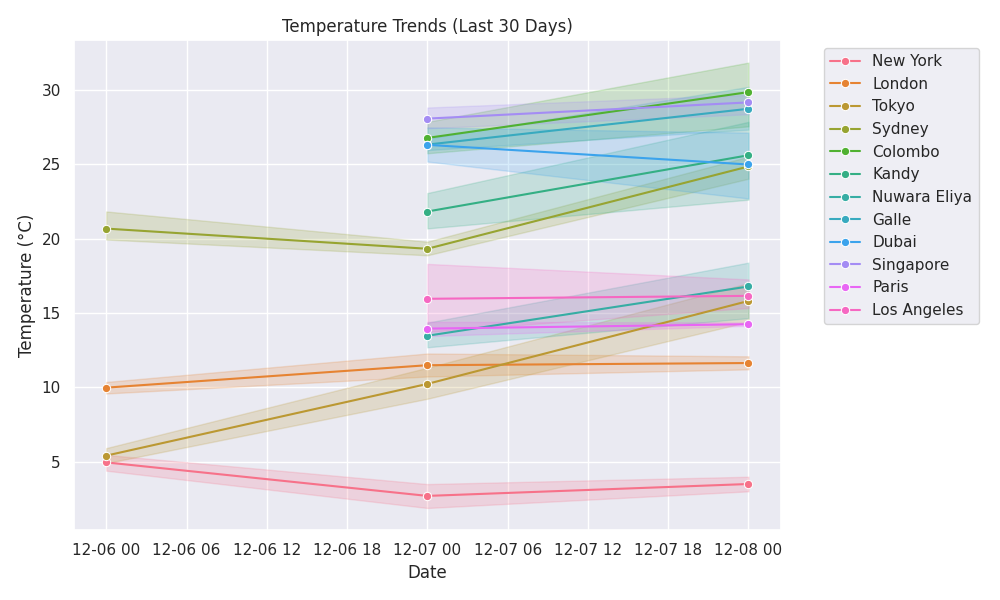
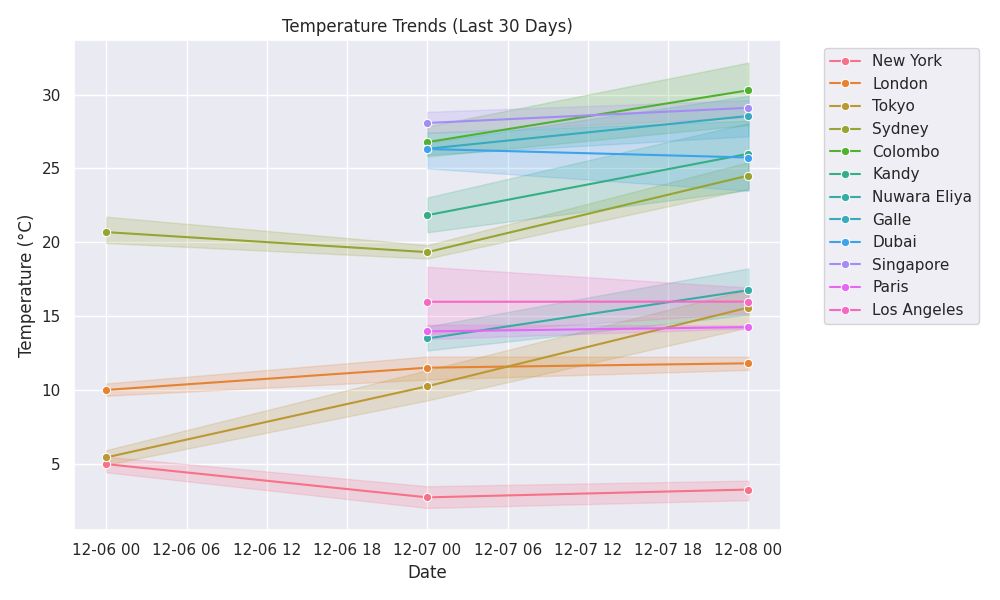
🌦 Weather update: 2025-12-08 09:20

diff --git a/public/index.html b/public/index.html
@@ -11,7 +11,7 @@
     <div class="max-w-6xl mx-auto">
         <header class="mb-8 text-center">
             <h1 class="text-4xl font-bold mb-2">🌍 Global Weather Dashboard</h1>
-            <p class="text-slate-400">Last Updated: 2025-12-08 08:21:21</p>
+            <p class="text-slate-400">Last Updated: 2025-12-08 09:20:39</p>
         </header>
         
         <!-- AI Summary -->
@@ -29,12 +29,12 @@
                     <span class="text-3xl">☁</span>
                 </div>
                 <div class="mt-4">
-                    <p class="text-4xl font-bold">14.14°C</p>
+                    <p class="text-4xl font-bold">14.19°C</p>
                     <p class="text-slate-400 capitalize">overcast clouds</p>
                 </div>
                 <div class="mt-4 text-sm text-slate-500">
                     <p>💧 Humidity: 90%</p>
-                    <p>💨 Wind: 6.69 m/s</p>
+                    <p>💨 Wind: 6.17 m/s</p>
                 </div>
             </div>
             
@@ -44,12 +44,12 @@
                     <span class="text-3xl">☁</span>
                 </div>
                 <div class="mt-4">
-                    <p class="text-4xl font-bold">12.62°C</p>
-                    <p class="text-slate-400 capitalize">few clouds</p>
+                    <p class="text-4xl font-bold">12.85°C</p>
+                    <p class="text-slate-400 capitalize">overcast clouds</p>
                 </div>
                 <div class="mt-4 text-sm text-slate-500">
                     <p>💧 Humidity: 87%</p>
-                    <p>💨 Wind: 4.12 m/s</p>
+                    <p>💨 Wind: 4.47 m/s</p>
                 </div>
             </div>
             
@@ -59,12 +59,12 @@
                     <span class="text-3xl">☀</span>
                 </div>
                 <div class="mt-4">
-                    <p class="text-4xl font-bold">22.55°C</p>
+                    <p class="text-4xl font-bold">22.11°C</p>
                     <p class="text-slate-400 capitalize">clear sky</p>
                 </div>
                 <div class="mt-4 text-sm text-slate-500">
-                    <p>💧 Humidity: 70%</p>
-                    <p>💨 Wind: 10.29 m/s</p>
+                    <p>💧 Humidity: 74%</p>
+                    <p>💨 Wind: 10.8 m/s</p>
                 </div>
             </div>
             
@@ -74,12 +74,12 @@
                     <span class="text-3xl">☁</span>
                 </div>
                 <div class="mt-4">
-                    <p class="text-4xl font-bold">29.71°C</p>
+                    <p class="text-4xl font-bold">28.66°C</p>
                     <p class="text-slate-400 capitalize">broken clouds</p>
                 </div>
                 <div class="mt-4 text-sm text-slate-500">
-                    <p>💧 Humidity: 66%</p>
-                    <p>💨 Wind: 8.23 m/s</p>
+                    <p>💧 Humidity: 67%</p>
+                    <p>💨 Wind: 7.2 m/s</p>
                 </div>
             </div>
             
@@ -89,12 +89,12 @@
                     <span class="text-3xl">☀</span>
                 </div>
                 <div class="mt-4">
-                    <p class="text-4xl font-bold">29.96°C</p>
+                    <p class="text-4xl font-bold">30.96°C</p>
                     <p class="text-slate-400 capitalize">clear sky</p>
                 </div>
                 <div class="mt-4 text-sm text-slate-500">
-                    <p>💧 Humidity: 20%</p>
-                    <p>💨 Wind: 4.63 m/s</p>
+                    <p>💧 Humidity: 16%</p>
+                    <p>💨 Wind: 4.12 m/s</p>
                 </div>
             </div>
             
@@ -104,12 +104,12 @@
                     <span class="text-3xl">☁</span>
                 </div>
                 <div class="mt-4">
-                    <p class="text-4xl font-bold">26.97°C</p>
+                    <p class="text-4xl font-bold">27.26°C</p>
                     <p class="text-slate-400 capitalize">scattered clouds</p>
                 </div>
                 <div class="mt-4 text-sm text-slate-500">
-                    <p>💧 Humidity: 80%</p>
-                    <p>💨 Wind: 3.95 m/s</p>
+                    <p>💧 Humidity: 78%</p>
+                    <p>💨 Wind: 3.79 m/s</p>
                 </div>
             </div>
             
@@ -119,12 +119,12 @@
                     <span class="text-3xl">☁</span>
                 </div>
                 <div class="mt-4">
-                    <p class="text-4xl font-bold">17.77°C</p>
+                    <p class="text-4xl font-bold">16.47°C</p>
                     <p class="text-slate-400 capitalize">broken clouds</p>
                 </div>
                 <div class="mt-4 text-sm text-slate-500">
-                    <p>💧 Humidity: 68%</p>
-                    <p>💨 Wind: 1.97 m/s</p>
+                    <p>💧 Humidity: 73%</p>
+                    <p>💨 Wind: 1.51 m/s</p>
                 </div>
             </div>
             
@@ -134,12 +134,12 @@
                     <span class="text-3xl">☀</span>
                 </div>
                 <div class="mt-4">
-                    <p class="text-4xl font-bold">28.88°C</p>
+                    <p class="text-4xl font-bold">28.63°C</p>
                     <p class="text-slate-400 capitalize">clear sky</p>
                 </div>
                 <div class="mt-4 text-sm text-slate-500">
-                    <p>💧 Humidity: 49%</p>
-                    <p>💨 Wind: 1.92 m/s</p>
+                    <p>💧 Humidity: 50%</p>
+                    <p>💨 Wind: 1.93 m/s</p>
                 </div>
             </div>
             
@@ -153,8 +153,8 @@
                     <p class="text-slate-400 capitalize">few clouds</p>
                 </div>
                 <div class="mt-4 text-sm text-slate-500">
-                    <p>💧 Humidity: 53%</p>
-                    <p>💨 Wind: 6.82 m/s</p>
+                    <p>💧 Humidity: 50%</p>
+                    <p>💨 Wind: 7.56 m/s</p>
                 </div>
             </div>
             
@@ -164,12 +164,12 @@
                     <span class="text-3xl">☁</span>
                 </div>
                 <div class="mt-4">
-                    <p class="text-4xl font-bold">2.31°C</p>
+                    <p class="text-4xl font-bold">1.35°C</p>
                     <p class="text-slate-400 capitalize">broken clouds</p>
                 </div>
                 <div class="mt-4 text-sm text-slate-500">
-                    <p>💧 Humidity: 55%</p>
-                    <p>💨 Wind: 9.26 m/s</p>
+                    <p>💧 Humidity: 50%</p>
+                    <p>💨 Wind: 7.72 m/s</p>
                 </div>
             </div>
             
@@ -179,12 +179,12 @@
                     <span class="text-3xl">☁</span>
                 </div>
                 <div class="mt-4">
-                    <p class="text-4xl font-bold">14.95°C</p>
+                    <p class="text-4xl font-bold">13.86°C</p>
                     <p class="text-slate-400 capitalize">scattered clouds</p>
                 </div>
                 <div class="mt-4 text-sm text-slate-500">
-                    <p>💧 Humidity: 52%</p>
-                    <p>💨 Wind: 4.12 m/s</p>
+                    <p>💧 Humidity: 59%</p>
+                    <p>💨 Wind: 3.09 m/s</p>
                 </div>
             </div>
             
@@ -194,11 +194,11 @@
                     <span class="text-3xl">☀</span>
                 </div>
                 <div class="mt-4">
-                    <p class="text-4xl font-bold">14.54°C</p>
+                    <p class="text-4xl font-bold">14.67°C</p>
                     <p class="text-slate-400 capitalize">clear sky</p>
                 </div>
                 <div class="mt-4 text-sm text-slate-500">
-                    <p>💧 Humidity: 73%</p>
+                    <p>💧 Humidity: 74%</p>
                     <p>💨 Wind: 1.54 m/s</p>
                 </div>
             </div>

diff --git a/README.md b/README.md
@@ -8,8 +8,8 @@
 
 ---
 
-## ⚡ Live Status (Updated: 2025-12-08 08:21 UTC)
-![Paris](https://img.shields.io/badge/Paris-14.14°C-blue) ![London](https://img.shields.io/badge/London-12.62°C-blue) ![Sydney](https://img.shields.io/badge/Sydney-22.55°C-green) ![Singapore](https://img.shields.io/badge/Singapore-29.71°C-orange) ![Dubai](https://img.shields.io/badge/Dubai-29.96°C-orange) ![Galle](https://img.shields.io/badge/Galle-26.97°C-orange) ![Nuwara Eliya](https://img.shields.io/badge/Nuwara%20Eliya-17.77°C-green) ![Kandy](https://img.shields.io/badge/Kandy-28.88°C-orange) ![Colombo](https://img.shields.io/badge/Colombo-33.35°C-red) ![New York](https://img.shields.io/badge/New%20York-2.31°C-blue) ![Tokyo](https://img.shields.io/badge/Tokyo-14.95°C-blue) ![Los Angeles](https://img.shields.io/badge/Los%20Angeles-14.54°C-blue) 
+## ⚡ Live Status (Updated: 2025-12-08 09:20 UTC)
+![Paris](https://img.shields.io/badge/Paris-14.19°C-blue) ![London](https://img.shields.io/badge/London-12.85°C-blue) ![Sydney](https://img.shields.io/badge/Sydney-22.11°C-green) ![Singapore](https://img.shields.io/badge/Singapore-28.66°C-orange) ![Dubai](https://img.shields.io/badge/Dubai-30.96°C-red) ![Galle](https://img.shields.io/badge/Galle-27.26°C-orange) ![Nuwara Eliya](https://img.shields.io/badge/Nuwara%20Eliya-16.47°C-green) ![Kandy](https://img.shields.io/badge/Kandy-28.63°C-orange) ![Colombo](https://img.shields.io/badge/Colombo-33.35°C-red) ![New York](https://img.shields.io/badge/New%20York-1.35°C-blue) ![Tokyo](https://img.shields.io/badge/Tokyo-13.86°C-blue) ![Los Angeles](https://img.shields.io/badge/Los%20Angeles-14.67°C-blue) 
 
 <div align="center">
   <h3>🏆 Weather Records (Live)</h3>
@@ -20,7 +20,7 @@
     </tr>
     <tr>
         <td align="center"><b>Colombo</b><br>33.35°C</td>
-        <td align="center"><b>New York</b><br>2.31°C</td>
+        <td align="center"><b>New York</b><br>1.35°C</td>
     </tr>
   </table>
 </div>
@@ -28,18 +28,18 @@
 ## 📊 Global Overview
 | 🌍 City | 🌡 Temp | 🌤 Condition | 💧 Humidity | 🌬 Wind |
 |---|---|---|---|---|
-| **Paris** | 14.14°C | overcast clouds | 🟦🟦🟦🟦⬜ 90% | 6.69 m/s |
-| **London** | 12.62°C | few clouds | 🟦🟦🟦🟦⬜ 87% | 4.12 m/s |
-| **Sydney** | 22.55°C | clear sky | 🟦🟦🟦⬜⬜ 70% | 10.29 m/s |
-| **Singapore** | 29.71°C | broken clouds | 🟦🟦🟦⬜⬜ 66% | 8.23 m/s |
-| **Dubai** | 29.96°C | clear sky | 🟦⬜⬜⬜⬜ 20% | 4.63 m/s |
-| **Galle** | 26.97°C | scattered clouds | 🟦🟦🟦🟦⬜ 80% | 3.95 m/s |
-| **Nuwara Eliya** | 17.77°C | broken clouds | 🟦🟦🟦⬜⬜ 68% | 1.97 m/s |
-| **Kandy** | 28.88°C | clear sky | 🟦🟦⬜⬜⬜ 49% | 1.92 m/s |
-| **Colombo** | 33.35°C | few clouds | 🟦🟦⬜⬜⬜ 53% | 6.82 m/s |
-| **New York** | 2.31°C | broken clouds | 🟦🟦⬜⬜⬜ 55% | 9.26 m/s |
-| **Tokyo** | 14.95°C | scattered clouds | 🟦🟦⬜⬜⬜ 52% | 4.12 m/s |
-| **Los Angeles** | 14.54°C | clear sky | 🟦🟦🟦⬜⬜ 73% | 1.54 m/s |
+| **Paris** | 14.19°C | overcast clouds | 🟦🟦🟦🟦⬜ 90% | 6.17 m/s |
+| **London** | 12.85°C | overcast clouds | 🟦🟦🟦🟦⬜ 87% | 4.47 m/s |
+| **Sydney** | 22.11°C | clear sky | 🟦🟦🟦⬜⬜ 74% | 10.8 m/s |
+| **Singapore** | 28.66°C | broken clouds | 🟦🟦🟦⬜⬜ 67% | 7.2 m/s |
+| **Dubai** | 30.96°C | clear sky | ⬜⬜⬜⬜⬜ 16% | 4.12 m/s |
+| **Galle** | 27.26°C | scattered clouds | 🟦🟦🟦⬜⬜ 78% | 3.79 m/s |
+| **Nuwara Eliya** | 16.47°C | broken clouds | 🟦🟦🟦⬜⬜ 73% | 1.51 m/s |
+| **Kandy** | 28.63°C | clear sky | 🟦🟦⬜⬜⬜ 50% | 1.93 m/s |
+| **Colombo** | 33.35°C | few clouds | 🟦🟦⬜⬜⬜ 50% | 7.56 m/s |
+| **New York** | 1.35°C | broken clouds | 🟦🟦⬜⬜⬜ 50% | 7.72 m/s |
+| **Tokyo** | 13.86°C | scattered clouds | 🟦🟦⬜⬜⬜ 59% | 3.09 m/s |
+| **Los Angeles** | 14.67°C | clear sky | 🟦🟦🟦⬜⬜ 74% | 1.54 m/s |
 
 
 ## 📈 Temperature Trends
